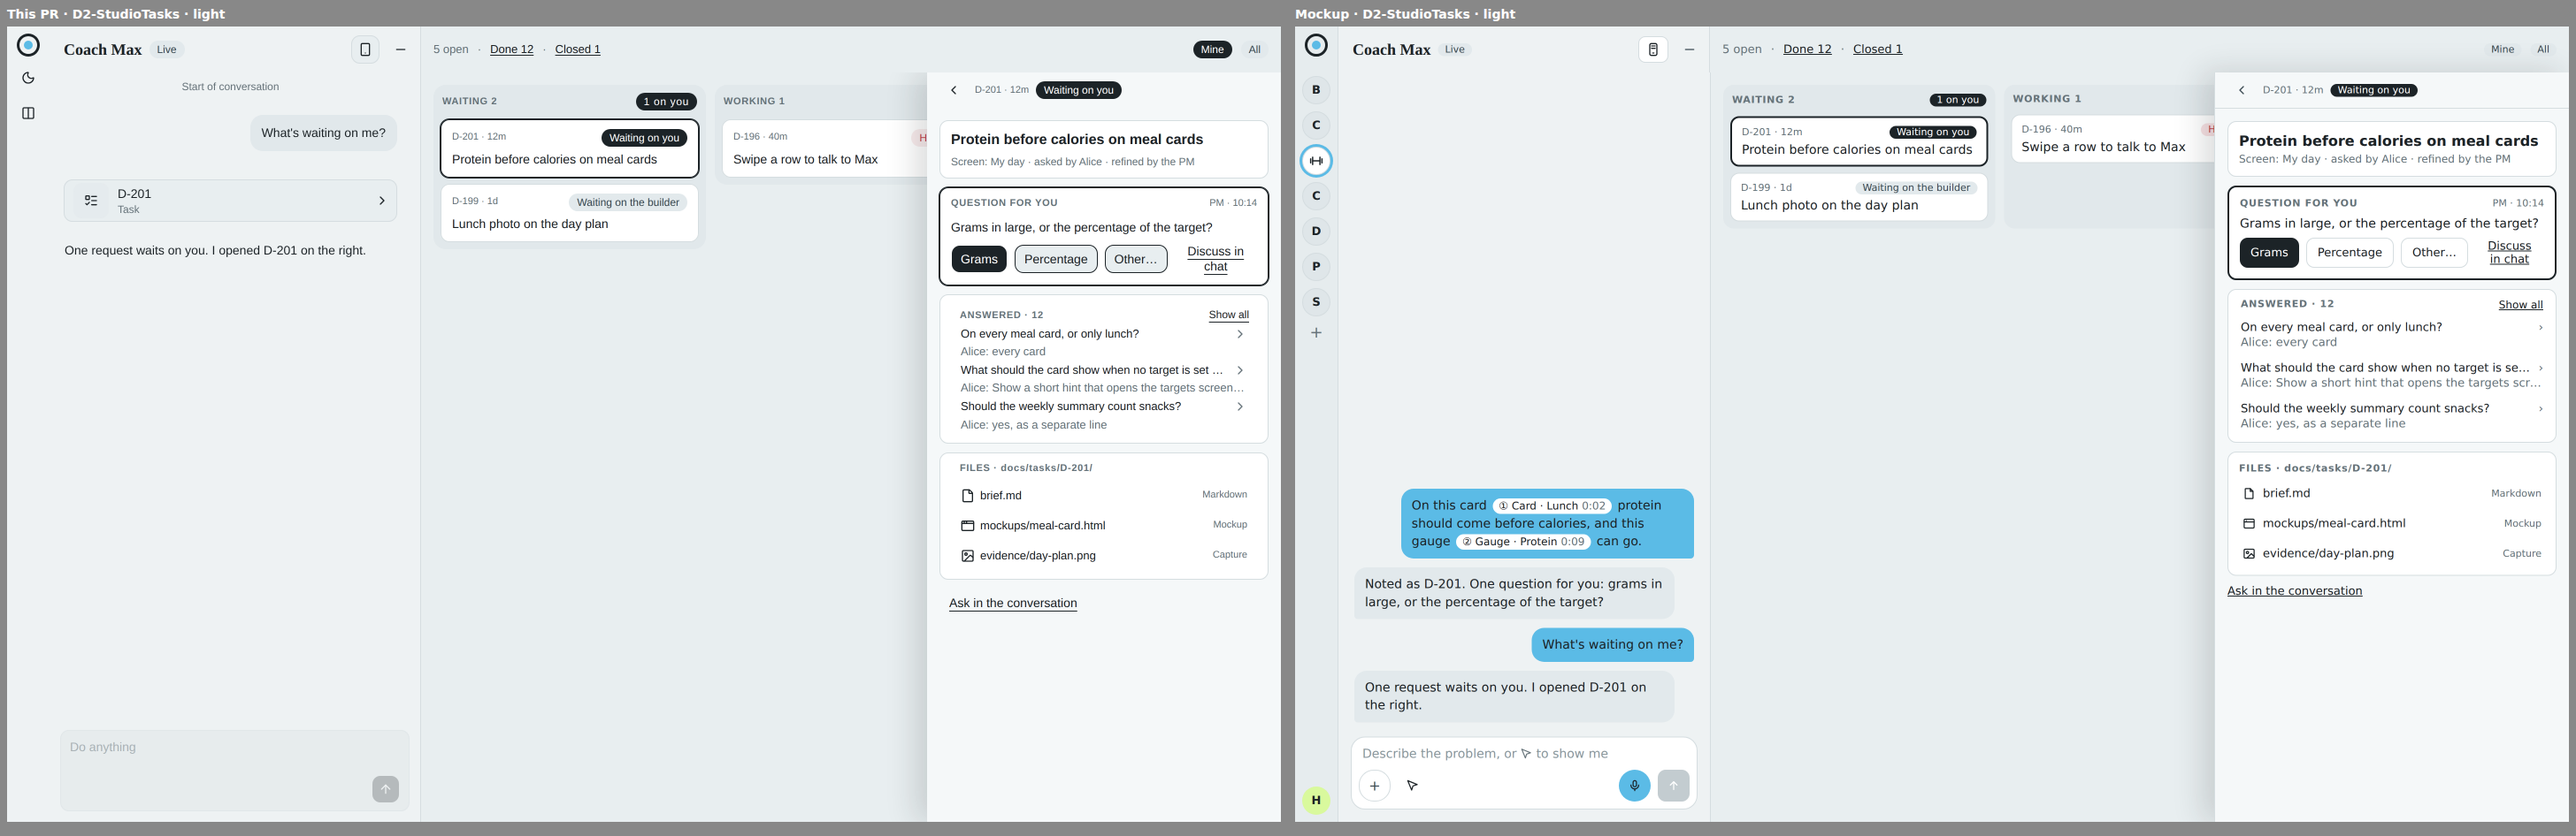
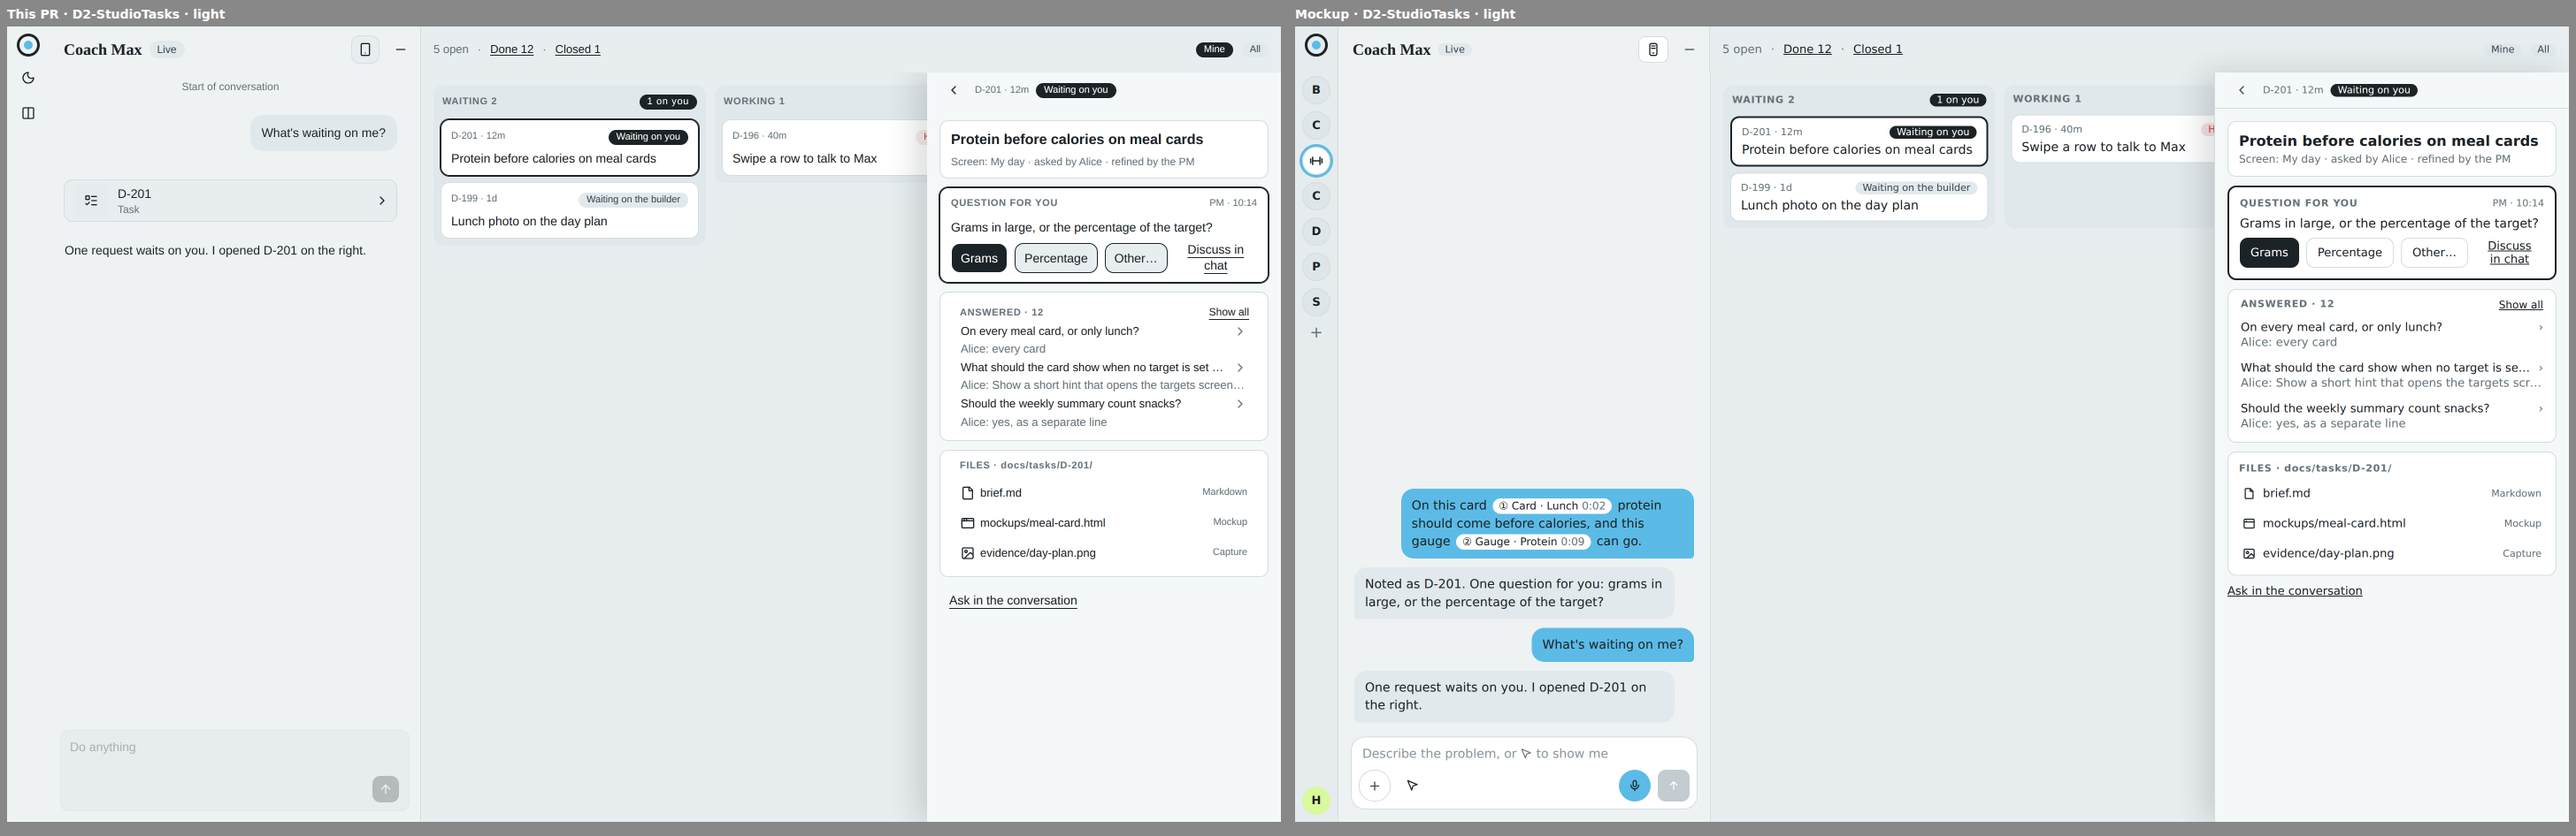
feat(task-board): read host tokens for pill, control, column and card sizes
Spec owner decision: tokens over restyles. The block reads
--task-pill-height/-font-size, --task-control-height, --task-column-radius
and --task-card-padding-y/-x, each falling back to the stock shadcn value.
The fixture's Studio theme sets the spec values (17/11px, 34px, 12px,
9/11px); Coach Max keeps its own theme. compare.mjs now fails unless D2
measures those values, and the compares are regenerated.

diff --git a/registry/task-board/task-board.tsx b/registry/task-board/task-board.tsx
@@ -10,12 +10,12 @@ import { Button } from '@/components/ui/button';
 import { Empty, EmptyDescription, EmptyHeader, EmptyTitle } from '@/components/ui/empty';
 import { Separator } from '@/components/ui/separator';
 import { cn } from '../utils/utils';
-import { TaskRequestCard, TaskStatusPill, taskMeta, taskStateLabels } from './task-request-card';
+import { TaskRequestCard, TaskStatusPill, taskMeta, taskStateLabels, taskTokens } from './task-request-card';
 import type { TaskLocale, TaskViewerAction } from './task-request-card';
 import { TaskDetail } from './task-detail';
 import type { TaskDetailProps } from './task-detail';
 
-export { TaskRequestCard, TaskRequestCard as TaskCard, TaskStatusPill, TaskStatusChip, TaskAttention, taskMeta } from './task-request-card';
+export { TaskRequestCard, TaskRequestCard as TaskCard, TaskStatusPill, TaskStatusChip, TaskAttention, taskMeta, taskTokens } from './task-request-card';
 export { TaskDetail } from './task-detail';
 export type { TaskRequestCardProps, TaskRequestCardProps as TaskCardProps, TaskLocale, TaskViewerAction } from './task-request-card';
 export type { TaskDetailProps } from './task-detail';
@@ -143,7 +143,7 @@ export function TaskBoard({ tasks, filter, onFilterChange, currentUser, limit, v
       {switcher('open', `${BOARD_STATES.reduce((sum, state) => sum + of(state).length, 0)} open`)}<span aria-hidden="true">·</span>
       {switcher('done', `Done ${of('done').length}`)}<span aria-hidden="true">·</span>
       {switcher('closed', `Closed ${of('closed').length}`)}
-      {currentUser !== undefined && <span className="ml-auto flex items-center gap-2.5" data-task-filter={shownFilter}>
+      {currentUser !== undefined && <span className={cn('ml-auto flex items-center gap-2.5', taskTokens.pill)} data-task-filter={shownFilter}>
         {(['mine', 'all'] as const).map(value => <Badge key={value} variant={shownFilter === value ? 'default' : 'secondary'} render={<a href="#" aria-current={shownFilter === value ? 'true' : undefined} onClick={chooseFilter(value)} />}>{value === 'mine' ? 'Mine' : 'All'}</Badge>)}
       </span>}
     </nav>}
@@ -153,8 +153,8 @@ export function TaskBoard({ tasks, filter, onFilterChange, currentUser, limit, v
           {BOARD_STATES.map(state => {
             const column = of(state).sort((a, b) => Number(b.waiting_on_you === true) - Number(a.waiting_on_you === true));
             const onYou = column.filter(task => task.waiting_on_you === true).length;
-            return <section key={state} data-task-column={state} aria-label={labels[state]} className="flex min-w-0 flex-col gap-[7px] self-start rounded-[var(--radius-xl)] bg-muted p-2">
-              <h3 className="flex min-h-6 items-center justify-between gap-2 px-0.5 pb-0.5 text-[11px] font-semibold tracking-[0.06em] text-muted-foreground"><span className="uppercase">{labels[state]} {column.length}</span>{onYou > 0 && <Badge data-task-on-you="">{onYou} on you</Badge>}</h3>
+            return <section key={state} data-task-column={state} aria-label={labels[state]} className={cn('flex min-w-0 flex-col gap-[7px] self-start bg-muted p-2', taskTokens.column)}>
+              <h3 className="flex min-h-6 items-center justify-between gap-2 px-0.5 pb-0.5 text-[11px] font-semibold tracking-[0.06em] text-muted-foreground"><span className="uppercase">{labels[state]} {column.length}</span>{onYou > 0 && <span className={cn('contents', taskTokens.pill)}><Badge data-task-on-you="">{onYou} on you</Badge></span>}</h3>
               <div role="list" className="flex flex-col gap-[7px]">{column.map(card)}</div>
             </section>;
           })}

diff --git a/registry/task-board/task-request-card.tsx b/registry/task-board/task-request-card.tsx
@@ -5,6 +5,7 @@ import type { TaskRecord, TaskState } from '@hachej/boring-ui-kit/task-board';
 import { deriveTaskStatus, taskReference, taskStatusLabel } from '@hachej/boring-ui-kit/task-board';
 import { Badge } from '@/components/ui/badge';
 import { Item } from '@/components/ui/item';
+import { cn } from '../utils/utils';
 
 export type TaskLocale = 'en' | 'fr';
 export type TaskViewerAction = 'question' | 'confirmation';
@@ -14,6 +15,18 @@ const captures = (count: number) => `${count} capture${count === 1 ? '' : 's'}`;
 const compactStrings = {
   en: { label: 'REQUEST', screen: (screen: string) => `Screen: ${screen}` },
   fr: { label: 'DEMANDE', screen: (screen: string) => `Écran : ${screen}` },
+} as const;
+
+/**
+ * Task-board tokens, set by the host theme. Each falls back to the stock shadcn value, so a host without them looks unchanged.
+ * `--task-pill-height` / `--task-pill-font-size` (pills), `--task-control-height` (question controls), `--task-column-radius`,
+ * `--task-card-padding-y` / `--task-card-padding-x` (board cards).
+ */
+export const taskTokens = {
+  pill: '*:h-[var(--task-pill-height,1.25rem)] *:text-[length:var(--task-pill-font-size,0.75rem)]',
+  control: '*:h-[var(--task-control-height,2rem)]',
+  card: '[&_[data-slot=item]]:px-[var(--task-card-padding-x,0.75rem)] [&_[data-slot=item]]:py-[var(--task-card-padding-y,0.625rem)]',
+  column: 'rounded-[var(--task-column-radius,var(--radius-xl))]',
 } as const;
 
 /** `id · age`, e.g. « D-201 · 12m ». */
@@ -30,7 +43,7 @@ export function TaskStatusPill({ task, locale = 'en', viewerAction = 'question' 
   if (!label) return null;
   const warning = status === 'waiting-on-viewer' && locale === 'fr';
   const badge = <Badge data-task-status={status} variant={status === 'waiting-on-viewer' && !warning ? 'default' : status === 'high-risk' ? 'destructive' : 'secondary'}>{label}</Badge>;
-  return warning ? <span className="contents [--secondary:var(--warning-soft,var(--secondary))] [--secondary-foreground:var(--warning-soft-foreground,var(--secondary-foreground))]">{badge}</span> : badge;
+  return <span className={cn('contents', taskTokens.pill, warning && '[--secondary:var(--warning-soft,var(--secondary))] [--secondary-foreground:var(--warning-soft-foreground,var(--secondary-foreground))]')}>{badge}</span>;
 }
 /** @deprecated The pill now follows `deriveTaskStatus`; `labels` is ignored. */
 export const TaskStatusChip = TaskStatusPill as (props: { readonly task: Pick<TaskRecord, 'waiting_on_you' | 'waiting_on' | 'risk'>; readonly labels?: unknown; readonly locale?: TaskLocale; readonly viewerAction?: TaskViewerAction }) => ReactNode;
@@ -76,7 +89,7 @@ export function TaskRequestCard({ task, variant = 'card', selected, href, onOpen
       {actions && <div data-task-actions="" className="mt-1 grid grid-cols-2 gap-2 *:min-h-11 *:w-full">{actions}</div>}
     </Item></div>;
   }
-  return <div role="listitem" className="rounded-[var(--radius-lg)] bg-card"><TaskAttention active={task.waiting_on_you === true}>
+  return <div role="listitem" className={cn('rounded-[var(--radius-lg)] bg-card', taskTokens.card)}><TaskAttention active={task.waiting_on_you === true}>
     <Item variant="outline" className="flex-col items-stretch gap-1" data-task-card={task.id} data-selected={selected || undefined} {...(link ? { render: link } : {})}>
       <span className="flex min-h-5 min-w-0 items-center justify-between gap-2 text-[11px] text-muted-foreground"><span>{taskMeta(task)}</span>{pill}</span>
       <span className="min-w-0 text-sm break-words text-foreground">{task.title}</span>

diff --git a/registry/task-board/task-detail.tsx b/registry/task-board/task-detail.tsx
@@ -7,7 +7,7 @@ import type { TaskFile, TaskQuestion, TaskRecord } from '@hachej/boring-ui-kit/t
 import { Button } from '@/components/ui/button';
 import { Input } from '@/components/ui/input';
 import { Item } from '@/components/ui/item';
-import { TaskAttention } from './task-request-card';
+import { TaskAttention, taskTokens } from './task-request-card';
 
 export interface TaskDetailProps {
   readonly task: TaskRecord;
@@ -52,7 +52,7 @@ function OpenQuestion({ task, question, onAnswer, onOther, onDiscussQuestion }: 
     <Item variant="outline" className="flex-col items-stretch gap-2" data-task-question={question.id}>
       <div className="flex items-baseline justify-between gap-2"><span className={sectionLabel}>QUESTION FOR YOU</span>{asked && <span className="text-[11px] text-muted-foreground">{asked}</span>}</div>
       <p className="text-sm">{question.text}</p>
-      <div className="flex items-center gap-2">
+      <div className={`flex items-center gap-2 ${taskTokens.control}`}>
         {question.options?.map((option, index) => {
           const value = typeof option === 'string' ? option : option.value;
           const label = typeof option === 'string' ? option : option.label;
@@ -61,7 +61,7 @@ function OpenQuestion({ task, question, onAnswer, onOther, onDiscussQuestion }: 
         {onOther && <Button variant="outline" data-task-other={question.id} aria-expanded={other !== null} onClick={() => setOther(value => value === null ? '' : null)}>Other…</Button>}
         {onDiscussQuestion && <Button variant="link" className="h-auto min-w-0 shrink text-center leading-tight whitespace-normal underline" data-task-discuss={question.id} onClick={() => onDiscussQuestion(task, question)}>Discuss in chat</Button>}
       </div>
-      {other !== null && <form className="flex gap-2" data-task-other-form={question.id} onSubmit={event => { event.preventDefault(); send(); }}>
+      {other !== null && <form className={`flex gap-2 ${taskTokens.control}`} data-task-other-form={question.id} onSubmit={event => { event.preventDefault(); send(); }}>
         <Input autoFocus aria-label="Your answer" maxLength={4096} value={other} onChange={event => setOther(event.target.value)} onKeyDown={event => { if (event.key === 'Escape') { event.preventDefault(); setOther(null); } }} />
         <Button type="submit" disabled={!other.trim()}>Send</Button>
       </form>}

diff --git a/examples/task-board/studio-theme.css b/examples/task-board/studio-theme.css
@@ -24,6 +24,13 @@
   --warning-soft: #fef3c7;
   --warning-soft-foreground: #92400e;
   --task-overlay-shadow: -12px 0 32px rgba(28, 35, 39, 0.16);
+  /* Task-board tokens at the spec 3 values: pill 11/500 with 1px padding, 34px controls, 12px columns, 9/11 card padding. */
+  --task-pill-font-size: 11px;
+  --task-pill-height: 17px;
+  --task-control-height: 34px;
+  --task-column-radius: 12px;
+  --task-card-padding-y: 9px;
+  --task-card-padding-x: 11px;
 }
 .dark:not(.coach) {
   --background: #151b1e;

diff --git a/MIGRATING.md b/MIGRATING.md
@@ -1,6 +1,6 @@
 # Unreleased
 
-- **Task board follows the PM spec (D2/D3/D6/C7).** The board draws a tasks bar (`bar`, `barStart`; « n open · Done n · Closed n » list links; Mine/All, Mine by default when `currentUser` is set — pass `filter`/`onFilterChange` to control it) and WAITING · WORKING · OPEN columns; Done/Closed are lists, no longer folded sections. Detail is a 400px panel-scoped overlay (no Drawer), files a 760px overlay; the detail shows title, the open question, Answered, Files and « Ask in the conversation » (`onAsk`), no longer `spec`/history. **Breaking:** `onOther(task, question, text)` now receives the inline field's text; the back control is `aria-label="Back to the tasks"`. `TaskRequestCard variant="compact"` is the C7 card (`locale`, `viewerAction`, two-column `actions`); `TaskBoard variant="compact"` stacks it (`cardActions`). `TaskStatusChip` is now `TaskStatusPill` (alias kept; `labels` ignored). Hosts supply `--warning-soft(-foreground)` for the French pill and may pass an overlay shadow token via `overlayClassName`.
+- **Task board follows the PM spec (D2/D3/D6/C7).** The board draws a tasks bar (`bar`, `barStart`; « n open · Done n · Closed n » list links; Mine/All, Mine by default when `currentUser` is set — pass `filter`/`onFilterChange` to control it) and WAITING · WORKING · OPEN columns; Done/Closed are lists, no longer folded sections. Detail is a 400px panel-scoped overlay (no Drawer), files a 760px overlay; the detail shows title, the open question, Answered, Files and « Ask in the conversation » (`onAsk`), no longer `spec`/history. **Breaking:** `onOther(task, question, text)` now receives the inline field's text; the back control is `aria-label="Back to the tasks"`. `TaskRequestCard variant="compact"` is the C7 card (`locale`, `viewerAction`, two-column `actions`); `TaskBoard variant="compact"` stacks it (`cardActions`). `TaskStatusChip` is now `TaskStatusPill` (alias kept; `labels` ignored). Hosts supply `--warning-soft(-foreground)` for the French pill and may pass an overlay shadow token via `overlayClassName`. Optional size tokens (`--task-pill-height`, `--task-pill-font-size`, `--task-control-height`, `--task-column-radius`, `--task-card-padding-y/-x`) override the stock shadcn sizes; unset, nothing changes.
 
 - **D-417 logic/API preparation for the revised PM spec.** Additive task display metadata (`age`, `requester`, `refiner`, `captureCount`, `folder`), question `askedBy`/`askedAt`, file `kind`, explicit `waiting_on.type`, and headless `deriveTaskStatus` / `taskStatusLabel` are available. `TaskCard` / `TaskCardProps` alias the existing request card; compact markup is unchanged pending the separate Opus fidelity pass. The fictional host's Discuss callback now preserves the draft and stages a task mention/question without sending; explicit Send uses the same native PM conversation. One-tap and free-text answers post an idempotently keyed native entry through the existing host answer service. No new store, conversation, composer, style or screenshot baseline is introduced.
 

diff --git a/registry/README.md b/registry/README.md
@@ -1432,6 +1432,7 @@ function RecentRequests({ tasks, open }: { tasks: readonly TaskRecord[]; open: (
 | `onOpenFile(task, file)`, `onShowFile(task, file)` | Exact adapter-owned task/file intents; Studio supplies its existing viewer/PM pointing service |
 | `labels`, `title`, `className`, `overlayClassName` | State labels, accessible name, outer layout and host-owned overlay appearance. The kit adds no shadow; the fixture host passes its existing shadow token |
 | `TaskRequestCard` | One record, two renderings: `variant: card` (D2: `id · age`, pill, title; 2px primary edge when waiting on the viewer) or `compact` (C7). `href`, `onOpen`, `selected`, `locale`, `viewerAction`, compact `actions` in two equal columns |
+| `taskTokens` | Host theme tokens the block reads, each falling back to the stock shadcn value: `--task-pill-height`, `--task-pill-font-size`, `--task-control-height`, `--task-column-radius`, `--task-card-padding-y`, `--task-card-padding-x` (Studio: 17px, 11px, 34px, 12px, 9px, 11px) |
 | `TaskStatusPill` (alias `TaskStatusChip`), `TaskDetail`, `TaskAttention`, `taskMeta` | Same pill, detail and attention edge independently embeddable without the board |
 
 The pure `@hachej/boring-ui-kit/task-board` entry exports record types, `TASK_STATES`, `selectTasks`, `taskReference`, `taskFromUrl` and `taskUrl`, with no React/files/Pi dependency. Map API-specific author/status fields in the host adapter; filtering never authorizes a read. History contains `{ id?, at?, actor?, note }`; questions contain `{ id, text, askedBy?, askedAt?, options?, answer?, answeredBy?, answeredAt? }`. `TaskFile` is `{ path, name?, kind?: 'markdown' | 'mockup' | 'capture' }` in `TaskRecord.files`: authorized paths come from the adapter, never synthesized from the task ID. Spec, questions and history render as escaped text, never executable content. A capture is a label, not an automatically fetched image. Additive `age`, `requester`, `refiner`, `captureCount` and `folder` fields carry host display metadata; `TaskCard`/`TaskCardProps` alias `TaskRequestCard`/its props. `deriveTaskStatus` and `taskStatusLabel` from the headless entry define explicit viewer/builder/risk/none semantics and localized labels. Questions and file names render as escaped text; `spec` and `history` stay in the record for hosts but are not part of the spec's detail sections.

diff --git a/features/task-board.md b/features/task-board.md
@@ -39,7 +39,7 @@ Preconditions: built packages, Chromium, fictional data only. Run `CHROMIUM=/pat
 
 ## Gotchas
 
-- Blocks pick no radius, border, shadow or colour literal (BORING-UI-1): pills, buttons and inputs are the host's shadcn sizes, and colours/radius come from the host theme (the fixture's `studio-theme.css`). Exact pill/button heights therefore follow the host's installed shadcn, not the block.
+- Blocks pick no radius, border, shadow or colour literal (BORING-UI-1). Spec sizes come from host tokens the block reads (`taskTokens`): `--task-pill-height` / `--task-pill-font-size`, `--task-control-height`, `--task-column-radius`, `--task-card-padding-y` / `-x`. Without them the stock shadcn values apply; Studio's theme (the fixture's `studio-theme.css`) sets the spec values, Coach Max keeps its own theme. `compare.mjs` fails if D2 does not measure 11px/17px pills, 34px controls, 12px columns, 9/11 card padding and a 400px overlay.
 - Hosts authorize and adapt records before rendering. `filter: 'mine'` is not authorization; the adapter supplies `requesterId`, never inferred from the assignee. Missing `currentUser` matches no own requests.
 - Question/action callbacks are host intents, not approval, persistence or confirmed execution. Text remains escaped; captures are labels, not arbitrary remote image URLs.
 - Files, answer identities and permissions belong to the adapter. The example resource route permits only the three supplied D-201 paths. `renderFile` borrows the host viewer; fullscreen/comments/pointing are that viewer/host's services, not TaskBoard implementations. The fixture records Montrer intent only: no PM point capture/chip, comment storage or second composer.
